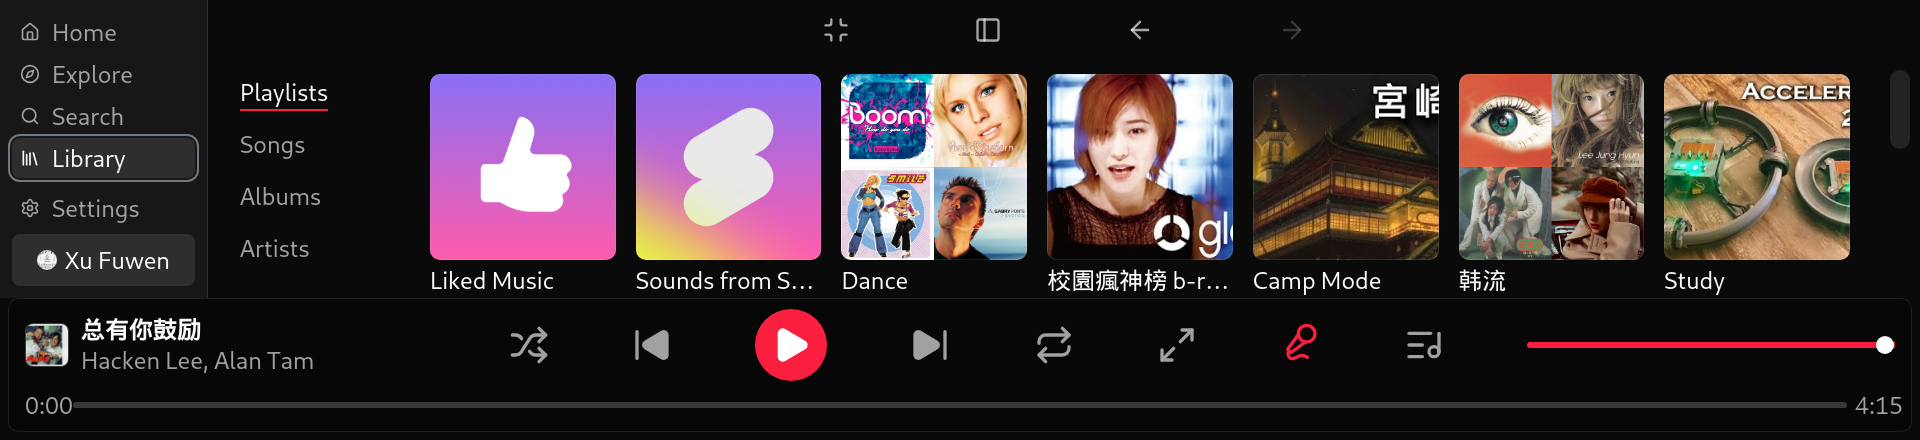
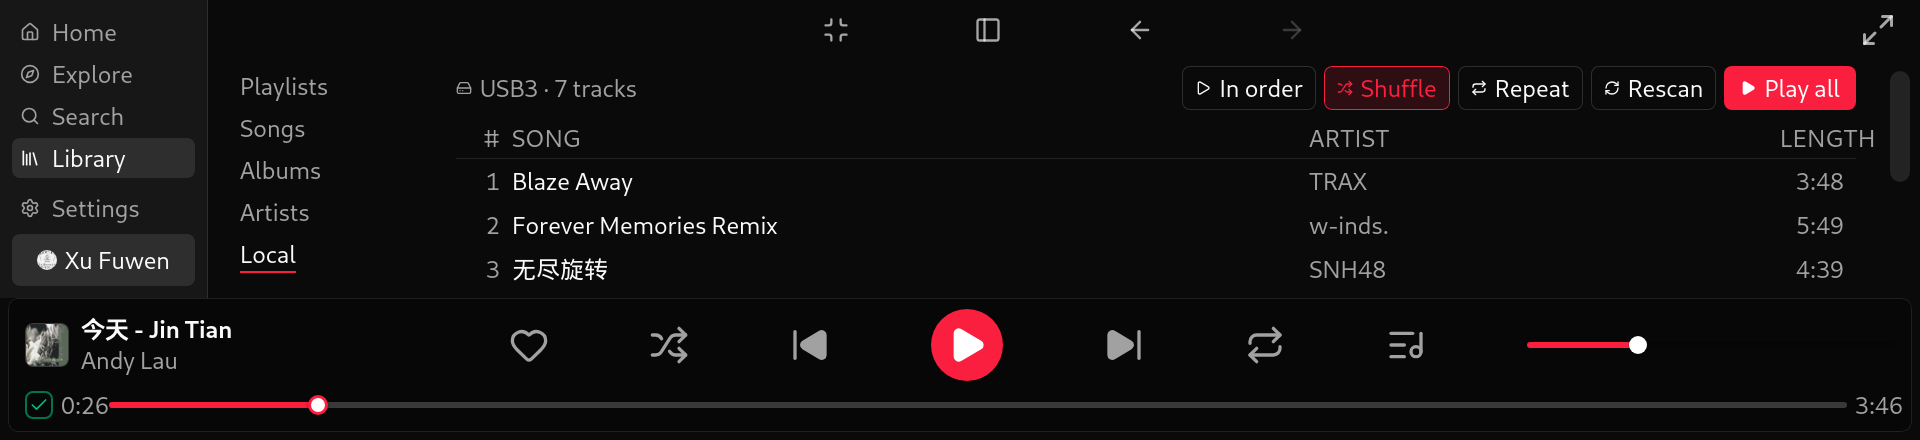
The Library capture is the real Local tab, and it shows 7 tracks not 8
Re-shot on the device now that the panel could be tapped there. It shows all
five tabs with Local selected, the song/artist/length columns and the play-mode
row.

The track count is the interesting part. The drive holds eight files named
.mp3; one is ASF/WMA wearing the wrong extension, which WebKit cannot decode.
The scan filters on the codec ffprobe reports rather than on the name, so the
list offers seven — the caption now points at that, since "7 tracks" is the
only visible evidence of a decision worth knowing about.

Claude-Session: https://claude.ai/code/session_01WLwY13oyzdHXJvsXPWy6Gi

diff --git a/README.md b/README.md
@@ -30,11 +30,13 @@ queue, volume. Closing is the same corner that opened it.*
 
 ![The Library, sub-nav down the left](./docs/screenshot-library.png)
 
-*Library. Sub-navigation runs down the left rather than across the top: there are 1712
-spare horizontal pixels and almost no vertical ones. Explore works the same way. The
-strip now carries a fifth tab — **Local**, for music on a USB stick — and its spacing
-was tightened so all five clear the fold without scrolling. (This capture predates the
-Local tab; the rest of the screen is unchanged.)*
+*Library, on the **Local** tab. Sub-navigation runs down the left rather than across
+the top: there are 1712 spare horizontal pixels and almost no vertical ones, and the
+five tabs are spaced to clear the fold without scrolling. Local lists what is on the
+USB stick — song, artist, length — with in-order / shuffle / repeat and a rescan. Note
+"7 tracks": the drive holds eight files named `.mp3`, but one of them is actually WMA,
+which WebKit cannot decode. The scan checks the codec rather than the extension, so it
+never offers a track that would fail on tap.*
 
 ## The interface
 
